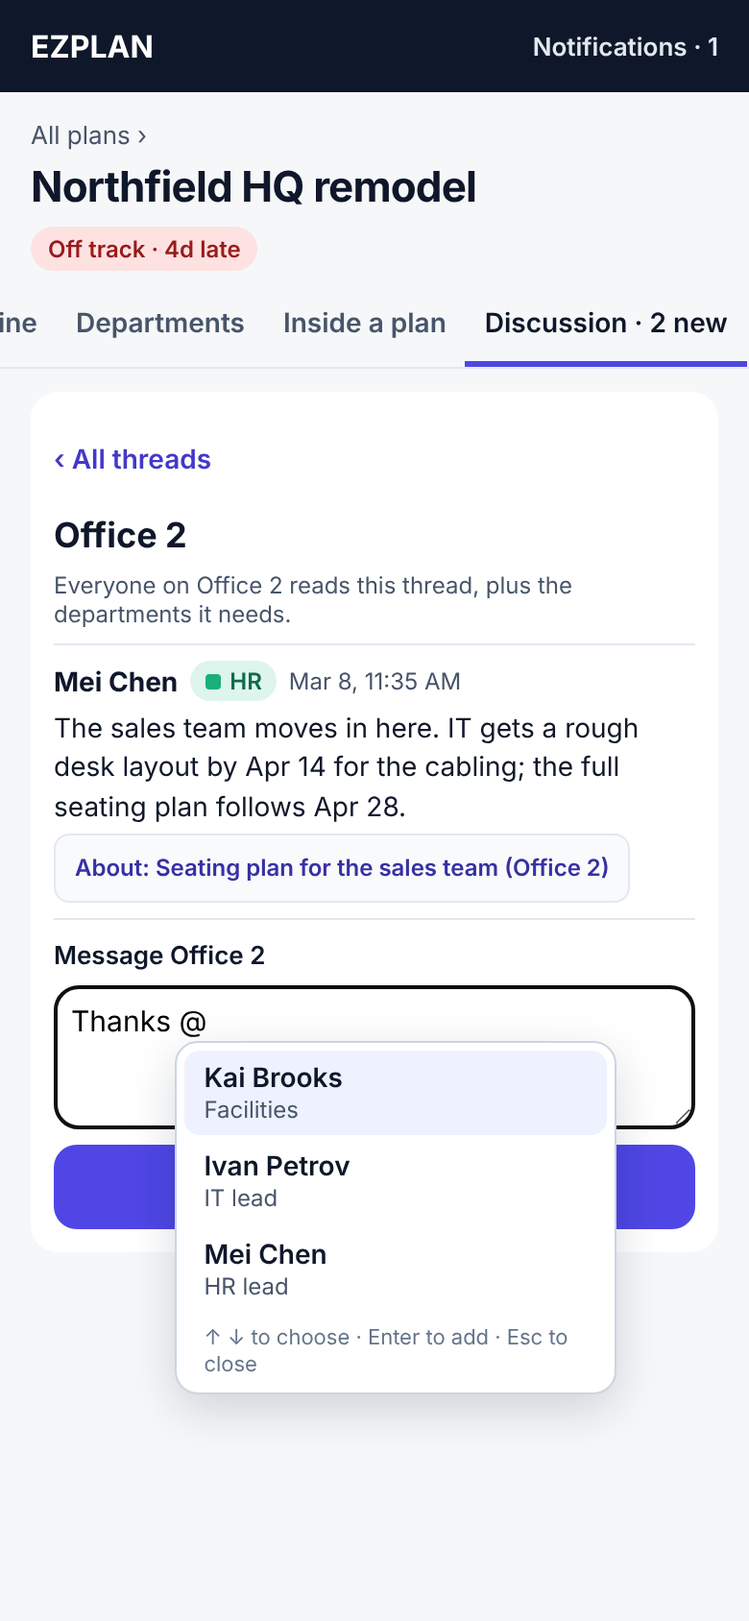
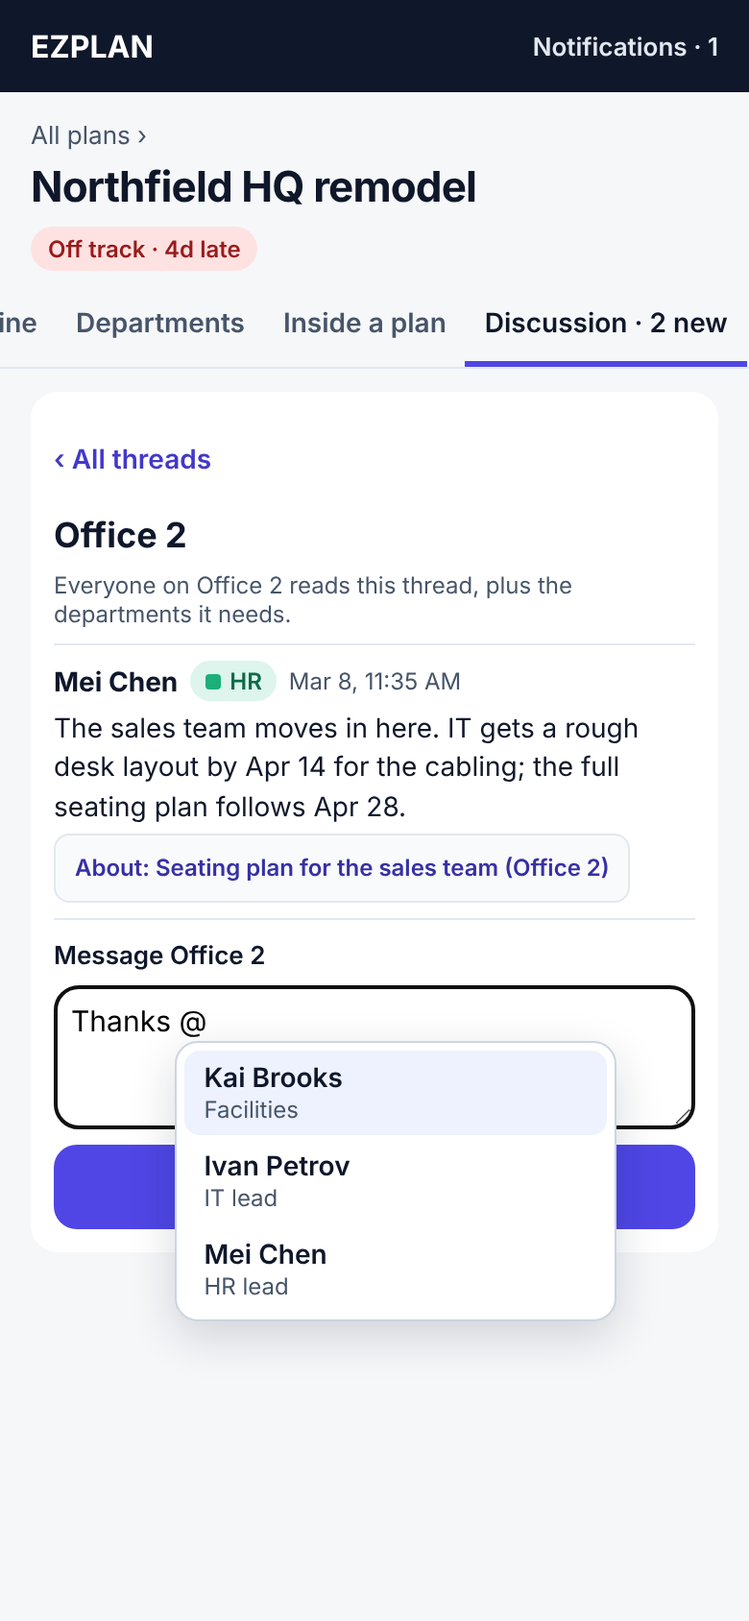
@mentions: suggestions open at the cursor
- New MentionBox: the list opens where the "@" is typed, filtered as
  you type; arrow keys move, Enter or Tab fills the name in, Escape
  closes the list without closing the task sheet
- You aren't suggested to yourself; keyboard hint hidden on touch
  screens; the list scrolls into view on phones
- Phone mockup matches; plan synced with the version approved Nov 24
  (K-boards update, J0 to J3) and this rule

Claude-Session: https://claude.ai/code/session_01WvRmkRWCBp93MZcvJpdhD5

Changed region(s): [[0.2154, 0.8009, 0.8308, 0.8626]]

diff --git a/app/src/ui/MentionBox.tsx b/app/src/ui/MentionBox.tsx
@@ -1,0 +1,139 @@
+/**
+ * A text box with @mention suggestions that open at the cursor, where the "@" is typed.
+ * Arrow keys move through the names, Enter or Tab fills one in, Escape closes the list.
+ */
+import { forwardRef, useCallback, useId, useImperativeHandle, useLayoutEffect, useRef, useState, type TextareaHTMLAttributes } from "react";
+
+/** The "@na" being typed just before the cursor, and where its "@" starts. */
+export function mentionAt(text: string, cursor: number): { query: string; start: number } | null {
+  const m = /(?:^|\s)@([^\s@]{0,30}(?: [^\s@]{0,30})?)$/.exec(text.slice(0, cursor));
+  return m ? { query: m[1]!, start: cursor - m[1]!.length - 1 } : null;
+}
+
+/** Names that start with what's typed, without the one already typed in full. */
+export function mentionMatches(people: string[], query: string, max = 6): string[] {
+  const q = query.toLowerCase();
+  return people.filter((p) => p.toLowerCase().startsWith(q) && p.toLowerCase() !== q).slice(0, max);
+}
+
+const COPY = ["boxSizing", "width", "fontFamily", "fontSize", "fontWeight", "lineHeight", "letterSpacing", "paddingTop", "paddingRight", "paddingBottom", "paddingLeft", "borderTopWidth", "borderRightWidth", "borderBottomWidth", "borderLeftWidth", "whiteSpace", "wordWrap", "overflowWrap", "tabSize"] as const;
+
+/** Pixel position of a character in a textarea, from a hidden copy laid out the same way. */
+function caretPoint(box: HTMLTextAreaElement, index: number): { left: number; top: number; line: number } {
+  const css = getComputedStyle(box);
+  const copy = document.createElement("div");
+  for (const k of COPY) copy.style[k] = css[k];
+  Object.assign(copy.style, { position: "absolute", visibility: "hidden", whiteSpace: "pre-wrap", overflowWrap: "break-word", top: "0", left: "-9999px" });
+  copy.textContent = box.value.slice(0, index);
+  const mark = document.createElement("span");
+  mark.textContent = "";
+  copy.appendChild(mark);
+  document.body.appendChild(copy);
+  const point = { left: mark.offsetLeft - box.scrollLeft, top: mark.offsetTop - box.scrollTop, line: parseFloat(css.lineHeight) || parseFloat(css.fontSize) * 1.4 };
+  copy.remove();
+  return point;
+}
+
+type Props = Omit<TextareaHTMLAttributes<HTMLTextAreaElement>, "value" | "onChange"> & {
+  id: string;
+  value: string;
+  onValue: (text: string) => void;
+  people: string[];
+};
+
+export const MentionBox = forwardRef<HTMLTextAreaElement, Props>(function MentionBox({ id, value, onValue, people, className = "", onKeyDown, ...rest }, ref) {
+  const box = useRef<HTMLTextAreaElement>(null);
+  useImperativeHandle(ref, () => box.current!);
+  const listId = useId();
+  const [cursor, setCursor] = useState(0);
+  const [active, setActive] = useState(0);
+  const [closedAt, setClosedAt] = useState<string | null>(null); // Escape closes it until the text changes
+  const [pos, setPos] = useState<{ left: number; top: number } | null>(null);
+  const menu = useRef<HTMLDivElement>(null);
+
+  const typed = mentionAt(value, cursor);
+  const names = typed && closedAt !== value ? mentionMatches(people, typed.query) : [];
+  const open = names.length > 0;
+  const current = Math.min(active, Math.max(names.length - 1, 0));
+
+  useLayoutEffect(() => {
+    if (!open || !typed || !box.current) return setPos(null);
+    const p = caretPoint(box.current, typed.start);
+    const width = box.current.clientWidth;
+    setPos({ left: Math.max(0, Math.min(p.left, width - 224)), top: p.top + p.line + 4 });
+  }, [open, typed?.start, value]); // eslint-disable-line react-hooks/exhaustive-deps
+  // On a phone the list can open below the visible part of a sheet: bring it into view.
+  useLayoutEffect(() => { if (open && pos) menu.current?.scrollIntoView?.({ block: "nearest" }); }, [open, pos?.top]); // eslint-disable-line react-hooks/exhaustive-deps
+
+  const track = useCallback(() => setCursor(box.current?.selectionStart ?? 0), []);
+
+  const fill = (name: string) => {
+    if (!typed) return;
+    const next = `${value.slice(0, typed.start)}@${name} ${value.slice(cursor)}`;
+    const at = typed.start + name.length + 2;
+    onValue(next);
+    setActive(0);
+    requestAnimationFrame(() => {
+      const el = box.current;
+      if (!el) return;
+      el.focus();
+      el.setSelectionRange(at, at);
+      setCursor(at);
+    });
+  };
+
+  return (
+    <div className="relative flex flex-col">
+      <textarea
+        {...rest}
+        ref={box}
+        id={id}
+        value={value}
+        role="combobox"
+        aria-autocomplete="list"
+        aria-expanded={open}
+        aria-controls={listId}
+        aria-activedescendant={open ? `${listId}-${current}` : undefined}
+        className={className}
+        onChange={(e) => { onValue(e.target.value); setCursor(e.target.selectionStart); setActive(0); }}
+        onSelect={track}
+        onClick={track}
+        onKeyUp={(e) => { if (!["ArrowUp", "ArrowDown", "Enter", "Tab", "Escape"].includes(e.key)) track(); }}
+        onKeyDown={(e) => {
+          if (open) {
+            if (e.key === "ArrowDown" || e.key === "ArrowUp") { e.preventDefault(); setActive((current + (e.key === "ArrowDown" ? 1 : names.length - 1)) % names.length); return; }
+            if (e.key === "Enter" || e.key === "Tab") { e.preventDefault(); fill(names[current]!); return; }
+            if (e.key === "Escape") { e.preventDefault(); e.stopPropagation(); setClosedAt(value); return; }
+          }
+          onKeyDown?.(e);
+        }}
+      />
+      {open && (
+        <div
+          ref={menu}
+          id={listId}
+          role="listbox"
+          aria-label="People to mention"
+          className="absolute z-20 flex w-56 flex-col gap-0.5 rounded-xl border border-line bg-surface p-1 shadow-lg"
+          style={pos ? { left: pos.left, top: pos.top } : { left: 0, top: "100%" }}
+        >
+          {names.map((name, i) => (
+            <div
+              key={name}
+              id={`${listId}-${i}`}
+              role="option"
+              aria-selected={i === current}
+              // Keep focus in the text box while picking with a mouse or finger.
+              onMouseDown={(e) => { e.preventDefault(); fill(name); }}
+              onMouseEnter={() => setActive(i)}
+              className={`flex min-h-11 cursor-pointer items-center rounded-lg px-2.5 text-[15px] font-semibold ${i === current ? "bg-primary-soft text-primary-ink" : "text-ink"}`}
+            >
+              @{name}
+            </div>
+          ))}
+          <span className="px-2.5 py-1 text-xs text-muted pointer-coarse:hidden">↑ ↓ to choose · Enter to add · Esc to close</span>
+        </div>
+      )}
+    </div>
+  );
+});

diff --git a/design/mockups/MasterPhone.dc.html b/design/mockups/MasterPhone.dc.html
@@ -99,7 +99,7 @@
           <label for="new-comment-phone" style="font-size: 13px; font-weight: 600">Add a comment</label>
           <div style="position: relative; display: flex; flex-direction: column">
             <textarea id="new-comment-phone" rows="3" value="{{ task.draft }}" onChange="{{ task.onDraft }}" placeholder="{{ task.placeholder }}" style="border: 1px solid #CBD5E1; border-radius: 12px; padding: 8px; font: 15px Inter, sans-serif" onKeyDown="{{ task.mention.onKey }}" aria-autocomplete="list" aria-expanded="{{ task.mention.open }}"></textarea>
-            <sc-if value="{{ task.mention.open }}" hint-placeholder-val="{{ false }}"><div role="listbox" aria-label="People to mention" style="{{ task.mention.box }}"><sc-for list="{{ task.mention.list }}" as="p" hint-placeholder-count="3"><button role="option" aria-selected="{{ p.sel }}" onClick="{{ p.pick }}" style="{{ p.style }}"><span style="font-size: 14px; font-weight: 600">{{ p.name }}</span><span style="font-size: 12px; color: #475569">{{ p.role }}</span></button></sc-for><span style="font-size: 11px; color: #64748B; padding: 4px 10px">↑ ↓ to choose · Enter to add · Esc to close</span></div></sc-if>
+            <sc-if value="{{ task.mention.open }}" hint-placeholder-val="{{ false }}"><div role="listbox" aria-label="People to mention" style="{{ task.mention.box }}"><sc-for list="{{ task.mention.list }}" as="p" hint-placeholder-count="3"><button role="option" aria-selected="{{ p.sel }}" onClick="{{ p.pick }}" style="{{ p.style }}"><span style="font-size: 14px; font-weight: 600">{{ p.name }}</span><span style="font-size: 12px; color: #475569">{{ p.role }}</span></button></sc-for></div></sc-if>
           </div>
           <button onClick="{{ task.post }}" style="min-height: 44px; border: none; border-radius: 12px; background: #4F46E5; color: #FFFFFF; cursor: pointer; font: 600 15px Inter, sans-serif">Post comment</button>
         </section>
@@ -132,7 +132,7 @@
           <label for="new-message-phone" style="font-size: 13px; font-weight: 600; border-top: 1px solid #E2E8F0; padding-top: 10px">Message {{ thread.title }}</label>
           <div style="position: relative; display: flex; flex-direction: column">
             <textarea id="new-message-phone" rows="3" value="{{ thread.draft }}" onChange="{{ thread.onDraft }}" placeholder="{{ thread.placeholder }}" style="border: 1px solid #CBD5E1; border-radius: 12px; padding: 8px; font: 15px Inter, sans-serif" onKeyDown="{{ thread.mention.onKey }}" aria-autocomplete="list" aria-expanded="{{ thread.mention.open }}"></textarea>
-            <sc-if value="{{ thread.mention.open }}" hint-placeholder-val="{{ false }}"><div role="listbox" aria-label="People to mention" style="{{ thread.mention.box }}"><sc-for list="{{ thread.mention.list }}" as="p" hint-placeholder-count="3"><button role="option" aria-selected="{{ p.sel }}" onClick="{{ p.pick }}" style="{{ p.style }}"><span style="font-size: 14px; font-weight: 600">{{ p.name }}</span><span style="font-size: 12px; color: #475569">{{ p.role }}</span></button></sc-for><span style="font-size: 11px; color: #64748B; padding: 4px 10px">↑ ↓ to choose · Enter to add · Esc to close</span></div></sc-if>
+            <sc-if value="{{ thread.mention.open }}" hint-placeholder-val="{{ false }}"><div role="listbox" aria-label="People to mention" style="{{ thread.mention.box }}"><sc-for list="{{ thread.mention.list }}" as="p" hint-placeholder-count="3"><button role="option" aria-selected="{{ p.sel }}" onClick="{{ p.pick }}" style="{{ p.style }}"><span style="font-size: 14px; font-weight: 600">{{ p.name }}</span><span style="font-size: 12px; color: #475569">{{ p.role }}</span></button></sc-for></div></sc-if>
           </div>
           <button onClick="{{ thread.post }}" style="min-height: 44px; border: none; border-radius: 12px; background: #4F46E5; color: #FFFFFF; cursor: pointer; font: 600 15px Inter, sans-serif">Post</button>
         </section>

diff --git a/design/mockups/src-master/phone.html b/design/mockups/src-master/phone.html
@@ -91,7 +91,7 @@
           <label for="new-comment-phone" style="font-size: 13px; font-weight: 600">Add a comment</label>
           <div style="position: relative; display: flex; flex-direction: column">
             <textarea id="new-comment-phone" rows="3" value="{{ task.draft }}" onChange="{{ task.onDraft }}" placeholder="{{ task.placeholder }}" style="border: 1px solid #CBD5E1; border-radius: 12px; padding: 8px; font: 15px Inter, sans-serif" onKeyDown="{{ task.mention.onKey }}" aria-autocomplete="list" aria-expanded="{{ task.mention.open }}"></textarea>
-            <sc-if value="{{ task.mention.open }}" hint-placeholder-val="{{ false }}"><div role="listbox" aria-label="People to mention" style="{{ task.mention.box }}"><sc-for list="{{ task.mention.list }}" as="p" hint-placeholder-count="3"><button role="option" aria-selected="{{ p.sel }}" onClick="{{ p.pick }}" style="{{ p.style }}"><span style="font-size: 14px; font-weight: 600">{{ p.name }}</span><span style="font-size: 12px; color: #475569">{{ p.role }}</span></button></sc-for><span style="font-size: 11px; color: #64748B; padding: 4px 10px">↑ ↓ to choose · Enter to add · Esc to close</span></div></sc-if>
+            <sc-if value="{{ task.mention.open }}" hint-placeholder-val="{{ false }}"><div role="listbox" aria-label="People to mention" style="{{ task.mention.box }}"><sc-for list="{{ task.mention.list }}" as="p" hint-placeholder-count="3"><button role="option" aria-selected="{{ p.sel }}" onClick="{{ p.pick }}" style="{{ p.style }}"><span style="font-size: 14px; font-weight: 600">{{ p.name }}</span><span style="font-size: 12px; color: #475569">{{ p.role }}</span></button></sc-for></div></sc-if>
           </div>
           <button onClick="{{ task.post }}" style="min-height: 44px; border: none; border-radius: 12px; background: #4F46E5; color: #FFFFFF; cursor: pointer; font: 600 15px Inter, sans-serif">Post comment</button>
         </section>
@@ -124,7 +124,7 @@
           <label for="new-message-phone" style="font-size: 13px; font-weight: 600; border-top: 1px solid #E2E8F0; padding-top: 10px">Message {{ thread.title }}</label>
           <div style="position: relative; display: flex; flex-direction: column">
             <textarea id="new-message-phone" rows="3" value="{{ thread.draft }}" onChange="{{ thread.onDraft }}" placeholder="{{ thread.placeholder }}" style="border: 1px solid #CBD5E1; border-radius: 12px; padding: 8px; font: 15px Inter, sans-serif" onKeyDown="{{ thread.mention.onKey }}" aria-autocomplete="list" aria-expanded="{{ thread.mention.open }}"></textarea>
-            <sc-if value="{{ thread.mention.open }}" hint-placeholder-val="{{ false }}"><div role="listbox" aria-label="People to mention" style="{{ thread.mention.box }}"><sc-for list="{{ thread.mention.list }}" as="p" hint-placeholder-count="3"><button role="option" aria-selected="{{ p.sel }}" onClick="{{ p.pick }}" style="{{ p.style }}"><span style="font-size: 14px; font-weight: 600">{{ p.name }}</span><span style="font-size: 12px; color: #475569">{{ p.role }}</span></button></sc-for><span style="font-size: 11px; color: #64748B; padding: 4px 10px">↑ ↓ to choose · Enter to add · Esc to close</span></div></sc-if>
+            <sc-if value="{{ thread.mention.open }}" hint-placeholder-val="{{ false }}"><div role="listbox" aria-label="People to mention" style="{{ thread.mention.box }}"><sc-for list="{{ thread.mention.list }}" as="p" hint-placeholder-count="3"><button role="option" aria-selected="{{ p.sel }}" onClick="{{ p.pick }}" style="{{ p.style }}"><span style="font-size: 14px; font-weight: 600">{{ p.name }}</span><span style="font-size: 12px; color: #475569">{{ p.role }}</span></button></sc-for></div></sc-if>
           </div>
           <button onClick="{{ thread.post }}" style="min-height: 44px; border: none; border-radius: 12px; background: #4F46E5; color: #FFFFFF; cursor: pointer; font: 600 15px Inter, sans-serif">Post</button>
         </section>

diff --git a/app/src/pages/plan/Comments.tsx b/app/src/pages/plan/Comments.tsx
@@ -3,15 +3,10 @@ import { useEffect, useRef, useState } from "react";
 import { Send } from "lucide-react";
 import { api, ApiError, type TaskComments } from "../../lib/api";
 import { Button, Notice } from "../../ui/kit";
+import { MentionBox } from "../../ui/MentionBox";
 import { usePlanCtx } from "./PlanContext";
 
 const when = (ms: number) => new Date(ms).toLocaleString(undefined, { month: "short", day: "numeric", hour: "numeric", minute: "2-digit" });
-
-/** The "@na" being typed at the end of the text, if any. */
-function typingMention(text: string): string | null {
-  const m = /(?:^|\s)@([^\s@]{0,30}(?: [^\s@]{0,30})?)$/.exec(text);
-  return m ? m[1]! : null;
-}
 
 export function Comments({ taskId, title }: { taskId: string; title: string }) {
   const { planId, tick } = usePlanCtx();
@@ -29,12 +24,6 @@ export function Comments({ taskId, title }: { taskId: string; title: string }) {
     setError("");
     setBusy(true);
     try { await f(); load(); return true; } catch (e) { setError(e instanceof ApiError ? e.message : "That didn't save. Try again."); return false; } finally { setBusy(false); }
-  };
-  const partial = typingMention(text);
-  const suggestions = partial === null || !data ? [] : data.people.filter((p) => p.toLowerCase().startsWith(partial.toLowerCase()) && p.toLowerCase() !== partial.toLowerCase()).slice(0, 5);
-  const pick = (name: string) => {
-    setText((t) => t.replace(/@([^\s@]{0,30}(?: [^\s@]{0,30})?)$/, `@${name} `));
-    box.current?.focus();
   };
 
   if (!data) return null;
@@ -68,12 +57,7 @@ export function Comments({ taskId, title }: { taskId: string; title: string }) {
       {data.canComment ? (
         <form className="flex flex-col gap-2" onSubmit={(e) => { e.preventDefault(); if (text.trim()) void run(() => api.addComment(planId, taskId, text)).then((ok) => ok && setText("")); }}>
           <label className="text-sm font-semibold" htmlFor={`new-comment-${taskId}`}>Add a comment</label>
-          <textarea ref={box} id={`new-comment-${taskId}`} rows={3} maxLength={2000} value={text} onChange={(e) => setText(e.target.value)} placeholder={`Ask or note something about ${title}. Type @ to mention someone.`} className="rounded-xl border border-line bg-surface p-2 text-[15px]" />
-          {suggestions.length > 0 && (
-            <div role="listbox" aria-label="People to mention" className="flex flex-wrap gap-2">
-              {suggestions.map((p) => <button key={p} type="button" role="option" aria-selected={false} onClick={() => pick(p)} className="min-h-9 rounded-full bg-primary-soft px-3 text-sm font-semibold text-primary-ink">@{p}</button>)}
-            </div>
-          )}
+          <MentionBox ref={box} id={`new-comment-${taskId}`} rows={3} maxLength={2000} value={text} onValue={setText} people={data.people} placeholder={`Ask or note something about ${title}. Type @ to mention someone.`} className="rounded-xl border border-line bg-surface p-2 text-[15px]" />
           <Button type="submit" className="self-start" disabled={busy || !text.trim()}><Send aria-hidden size={16} /> Post comment</Button>
         </form>
       ) : (

diff --git a/app/e2e/comments.spec.ts b/app/e2e/comments.spec.ts
@@ -39,6 +39,25 @@ test("Sam (commenter) comments and mentions Alex; Alex sees it live; Sam can't c
   await expect(samSheet.getByRole("listitem", { name: "Comment by Sam Okoye" })).toContainText("<b>today</b>"); // shown as text
   await expect(samSheet.getByRole("button", { name: "Edit" })).toBeVisible();
 
+  // Suggestions open at the cursor and work from the keyboard; Escape closes them, not the sheet.
+  await box.pressSequentially("Also @");
+  const menu = samSheet.getByRole("listbox", { name: "People to mention" });
+  await expect(menu).toBeVisible();
+  await expect(menu.getByRole("option", { name: "@Sam Okoye" })).toHaveCount(0); // not suggested to themselves
+  if (process.env.SHOTS) await sam.screenshot({ path: `e2e/.results/shots/${test.info().project.name}-i-mention-menu.png` });
+  const [boxAt, menuAt] = [(await box.boundingBox())!, (await menu.boundingBox())!];
+  expect(menuAt.y).toBeGreaterThan(boxAt.y);
+  expect(menuAt.y).toBeLessThan(boxAt.y + boxAt.height); // opens inside the box, under the line being typed
+  await box.press("Escape");
+  await expect(menu).toBeHidden();
+  await expect(samSheet).toBeVisible();
+  await box.pressSequentially("A");
+  await expect(menu.getByRole("option", { name: "@Alex Rivera" })).toHaveAttribute("aria-selected", "true");
+  await box.press("Enter");
+  await expect(box).toHaveValue("Also @Alex Rivera ");
+  await expect(menu).toBeHidden();
+  await box.fill("");
+
   // Alex sees it without reloading, and the row shows a count.
   await expect(alexSheet.getByRole("listitem", { name: "Comment by Sam Okoye" })).toContainText("Which supplier? @Alex Rivera please confirm");
   await alexSheet.getByRole("button", { name: "Close" }).click();

diff --git a/app/src/pages/plan/TaskSheet.tsx b/app/src/pages/plan/TaskSheet.tsx
@@ -37,7 +37,7 @@ export function TaskSheet({ task, plan, math, canEdit, edit, onClose, options, o
     <Dialog.Root open onOpenChange={(o) => !o && onClose()}>
       <Dialog.Portal>
         <Dialog.Overlay className="fixed inset-0 z-30 bg-black/40" />
-        <Dialog.Content className="fixed inset-x-0 bottom-0 z-40 flex max-h-[92dvh] flex-col gap-4 overflow-y-auto rounded-t-3xl bg-surface p-5 pb-[calc(20px+env(safe-area-inset-bottom))] shadow-xl lg:inset-y-0 lg:right-0 lg:left-auto lg:max-h-none lg:w-[440px] lg:rounded-none">
+        <Dialog.Content onEscapeKeyDown={(e) => { if ((document.activeElement as HTMLElement | null)?.getAttribute("aria-expanded") === "true") e.preventDefault(); /* Escape closes an open @mention list first */ }} className="fixed inset-x-0 bottom-0 z-40 flex max-h-[92dvh] flex-col gap-4 overflow-y-auto rounded-t-3xl bg-surface p-5 pb-[calc(20px+env(safe-area-inset-bottom))] shadow-xl lg:inset-y-0 lg:right-0 lg:left-auto lg:max-h-none lg:w-[440px] lg:rounded-none">
           <div className="flex items-start gap-3">
             <div className="flex min-w-0 flex-1 flex-col gap-1">
               <span className="text-xs font-bold text-muted">{task.id} · {task.milestone ? "Milestone" : STATUS[task.status].label}</span>

diff --git a/server/test/collab.contract.ts b/server/test/collab.contract.ts
@@ -67,7 +67,8 @@ export function collabContract(hostName: string, factory: HostFactory) {
       a.close();
 
       const list = (await comments("T2", SAM)).body;
-      expect(list.people).toEqual(expect.arrayContaining(["Alex", "Sam Okoye", "Kim"]));
+      expect(list.people).toEqual(expect.arrayContaining(["Alex", "Kim"]));
+      expect(list.people).not.toContain("Sam Okoye"); // not suggested to themselves
       expect(list.comments[0]).toMatchObject({ author: "Alex", body: "<b>@Sam Okoye</b> can you check with @Alex? cc nobody@example.com", mine: false, canEdit: false, canDelete: false });
       const cid = list.comments[0].id;
       expect((await req("PATCH", `/api/plans/${id}/tasks/T2/comments/${cid}`, { body: "mine now" }, SAM)).status).toBe(403);

diff --git a/server/src/comments.ts b/server/src/comments.ts
@@ -60,7 +60,8 @@ export function registerCollabRoutes(app: Hono<{ Variables: { user: User } }>, d
     );
     return c.json({
       canComment: canComment(a.role),
-      people: (await planPeople(db, id)).map((p) => p.name),
+      // Who can be @mentioned, for the suggestions as you type; you aren't suggested to yourself.
+      people: [...new Set((await planPeople(db, id)).filter((p) => p.userId !== user.id).map((p) => p.name))],
       comments: rows.map((r) => ({
         id: r.id,
         author: r.name,

diff --git a/docs/PLAN.md b/docs/PLAN.md
@@ -662,6 +662,39 @@ Example: an office remodel holding Kitchen, Bathroom 1 to 3, Office 1 to 3, each
 - **Verify:** every date and the finish match the engine output; links and critical path consistent across views; every state reachable by clicking; no horizontal overflow at 390 px; readable in grayscale.
 - **Then J**, with its Overview widgets, grid + Gantt and status updates designed to accept a master plan (sub-plans as grouped rows), followed by the K build.
 
+**J build plan (Nov 24, owner: "next?").** K mockups are published; I'm treating "next?" as going ahead with J, and any feedback on the K boards still changes the K build. Three slices, each committed with contract tests (both hosts), e2e (phone + desktop), screenshots, docs/PLAN.md synced. Every piece takes a *list of plans* where it makes sense, so K can feed it a master's sub-plans later.
+
+*K-boards update first (owner, Nov 24: comments weren't visible on the master mockups).* Add to `design/mockups/src-master/` (both sizes, same logic file), republish to the canvas, screenshots, commit:
+- **Inside a plan:** tapping a task opens its comment thread (same look as the built app's task sheet: author, time, @mention highlighted as text, "Add a comment" with @ suggestions from people on the plan and its departments' contacts), with a comment-count chip on task rows.
+- **Discussion tab on the master:** one thread per sub-plan plus a "Whole building" thread, so departments talk across plans (e.g. IT in Reception telling Office 1 to 3 the closet move is done). Each message can link a task ("about: Move network closet"). Thread list shows the latest message and unread count; mentions reach the bell.
+- **Activity on the master:** recent lines across all plans, filter by plan and department.
+- Sample messages use the remodel's people and real engine dates. The K build later gets a `threads` table (plan or whole-master scope) next to the existing task `comments`.
+
+**K-boards update: done (Nov 24).** Comments on "Inside a plan" (comment-count chips, thread in a side panel on desktop and its own screen on phone), Discussion tab (9 threads, unread counts, "About:" links open the task), Activity across all plans with plan and department filters. Republished to the canvas; screenshots `mp-comments`, `mp-discussion`, `mp-activity` and `mpp-*` versions.
+
+**Rule for every text box with @mentions (owner, Nov 24):** suggestions open as a small list at the cursor, where the "@" is typed (not below the box), filtered as you type; arrow keys move, Enter or Tab fills the name in, Escape closes the list (and not the sheet around it); you are never suggested to yourself; the keyboard hint is hidden on touch screens. Built as `app/src/ui/MentionBox.tsx`, used by task comments now and by the master plan Discussion in the K build. Tested in `app/e2e/comments.spec.ts` (list opens inside the box under the line, Escape, Enter).
+
+*J0. Safety reports: tell company admins (owner decision, Nov 24).* Safety and abuse reports keep going only to the owner's team (Support inbox and Safety review queue, whatever the company's routing). New: the managers of the reporter's workspace get a notice with **no details** (no reporter name, no text): "A safety report was filed from your workspace. {BRAND}'s safety team is reviewing it." It links to Help, never to the report. Change in `server/src/support.ts` (ticket creation, topic `safety`), one contract assertion (managers notified, the notice contains neither the name nor the text, they still get 404 on the ticket), and the Help screen's "through our team only" wording updated to say so. Committed on its own before J1.
+
+*J1. Baselines and status updates (shared + server + app)*
+- **Baseline:** the format already has `planned:` per task and `baseline_set:` (`shared/src/schema.ts`), and `progressOf` already computes `baselineVarianceDays` (`shared/src/schedule.ts`); what's missing is a way to set it. New server-validated op `setBaseline { dates: Record<taskId, {start, end}>, label }` in `shared/src/ops.ts` + `opSchema.ts` (client computes dates from its schedule; the server recomputes with `levelPlan` and ignores the client's dates, so it can't be forged). Saves a version first ("Before setting baseline"). Activity line "Alex set the baseline". Per-task variance chip on the checklist ("+3d vs baseline"), ghost bars on the Timeline (already drawn from `planned`), KPI on the Overview.
+- **Status updates:** migration 10 `status_updates (id, plan_id, rag 'green'|'amber'|'red', headline, sections JSON, source 'template'|'ai', author, created_at)`. The existing Report page (`app/src/pages/plan/Report.tsx`, H's `statusFacts`/`templateReport`/AI wording) gets **Post update**: RAG picker (suggested from `suggestedHealth`), edit, post. History timeline on the plan (newest first, RAG chip, who, when), latest one on the Overview, "update overdue" gray marker after 7 days on the plan header and Home cards. Posting notifies the plan's people (I2 notices) and writes activity. Viewers and commenters read; editors post.
+
+*J2. Desktop Overview dashboard with widgets*
+- Widgets (each a small component over `usePlanMath`, `app/src/pages/plan/math.ts`): KPI row (% done, schedule variance vs baseline, forecast finish, overdue, open risks, Plan Check score), milestone strip, critical path with slack, two-week lookahead, workload snapshot (from `levelPlan` bookings), latest status update, recent activity (I1), Plan Check (H). Hide and reorder (keyboard and drag), saved per person: migration 10 also adds `user_prefs (user_id, key, value JSON, updated_at)` with `GET/PUT /api/me/prefs/:key`. Phone keeps today's compact Overview, same numbers.
+
+*J3. Grid + Gantt, and the RAID log*
+- **Grid + Gantt** (`/p/:id/grid`, desktop; phones get a "Best on a larger screen" note with a link to the checklist): table with ID, task, owner, status, start, finish, duration, waits on, baseline variance, department chip (ready for K's `dept:`); inline edits go through the normal ops; sort, group by phase (later by sub-plan). Gantt on the right shares row positions and the Timeline's draw-only-what's-on-screen approach (`app/src/lib/view.ts` `useVisibleRows`), baseline ghosts, critical path, today line. Speed test extended: 2,000 tasks scroll and edit within the existing budgets.
+- **RAID log:** migration 10 `raid_items (id, plan_id, kind risk|assumption|issue|decision, title, detail, owner, likelihood 1-5, impact 1-5, status open|closed, due, task_ids JSON, created_by, created_at, updated_at)`; `GET/POST/PATCH/DELETE /api/plans/:id/raid`. List with filters, 5×5 risk heat map (count per cell, text in every cell, not color alone, dataviz palette), "Add to RAID log" on AI risks in Plan Check (prefilled), open risks/issues count on the Overview KPI. Works on phones as a list. Free screening on text; activity lines.
+
+*Tests*
+- Unit: `setBaseline` op (server dates win, variance after a slip), RAG suggestion.
+- Contract (both hosts): baseline sets planned dates and a version; status update post/list/permissions/overdue flag/notifications; prefs per user only; RAID CRUD, permissions, other plans' items invisible.
+- E2E: set baseline, slip a task, see "+Nd" and the KPI; post a status update and see history and the cleared overdue marker; add a risk from Plan Check and see it on the heat map; hide and move a widget, reload, still there; grid inline edit reflected in the checklist.
+- `SPEED=1` with the grid at 2,000 tasks.
+
+**After J:** K build (master plans: data model with `parent_id` and cross-plan links, one schedule across sub-plans, the screens from the approved boards), then deployment once the owner's Cloudflare account exists.
+
 **J. Desktop project workspace (section 1b)**
 1. **Baselines:** "Set baseline" saves today's planned dates for every task (new edit `setBaseline`, server-validated) so schedule variance and ghost bars have something to compare to; the Timeline already draws `planned` bars.
 2. **Overview dashboard (desktop):** KPI row (% complete, schedule variance in days vs baseline, forecast finish, overdue, open risks and issues, Plan Check score), milestone strip, critical path with slack, two-week lookahead, workload snapshot, latest status update, recent activity. Widgets can be hidden and reordered; saved per person (`user_prefs`). Phone keeps the current compact Overview with the same numbers.
